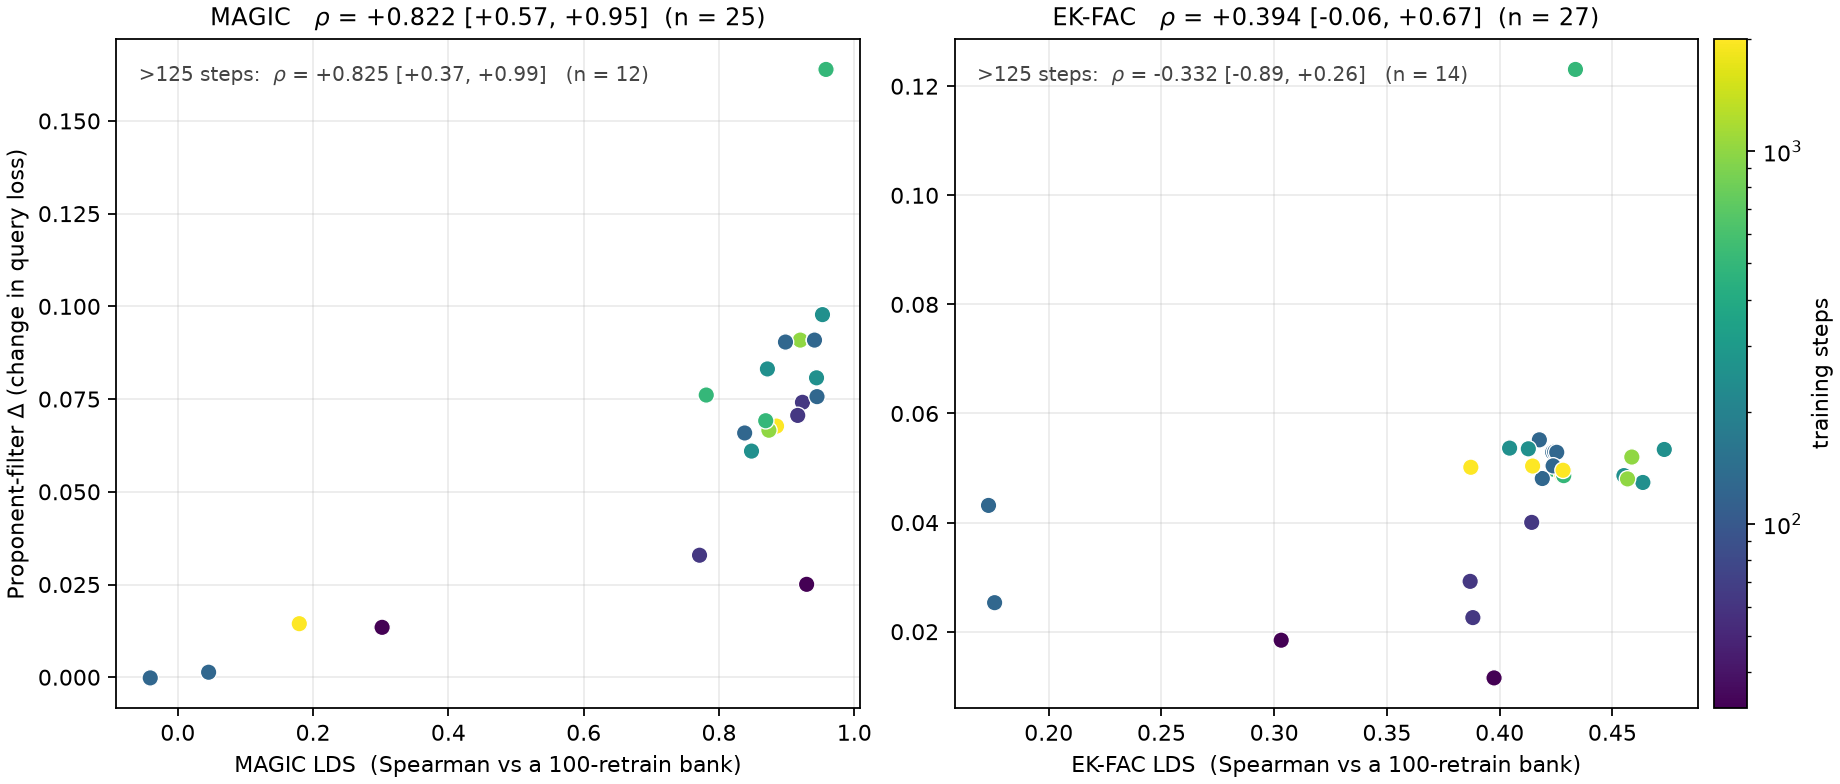
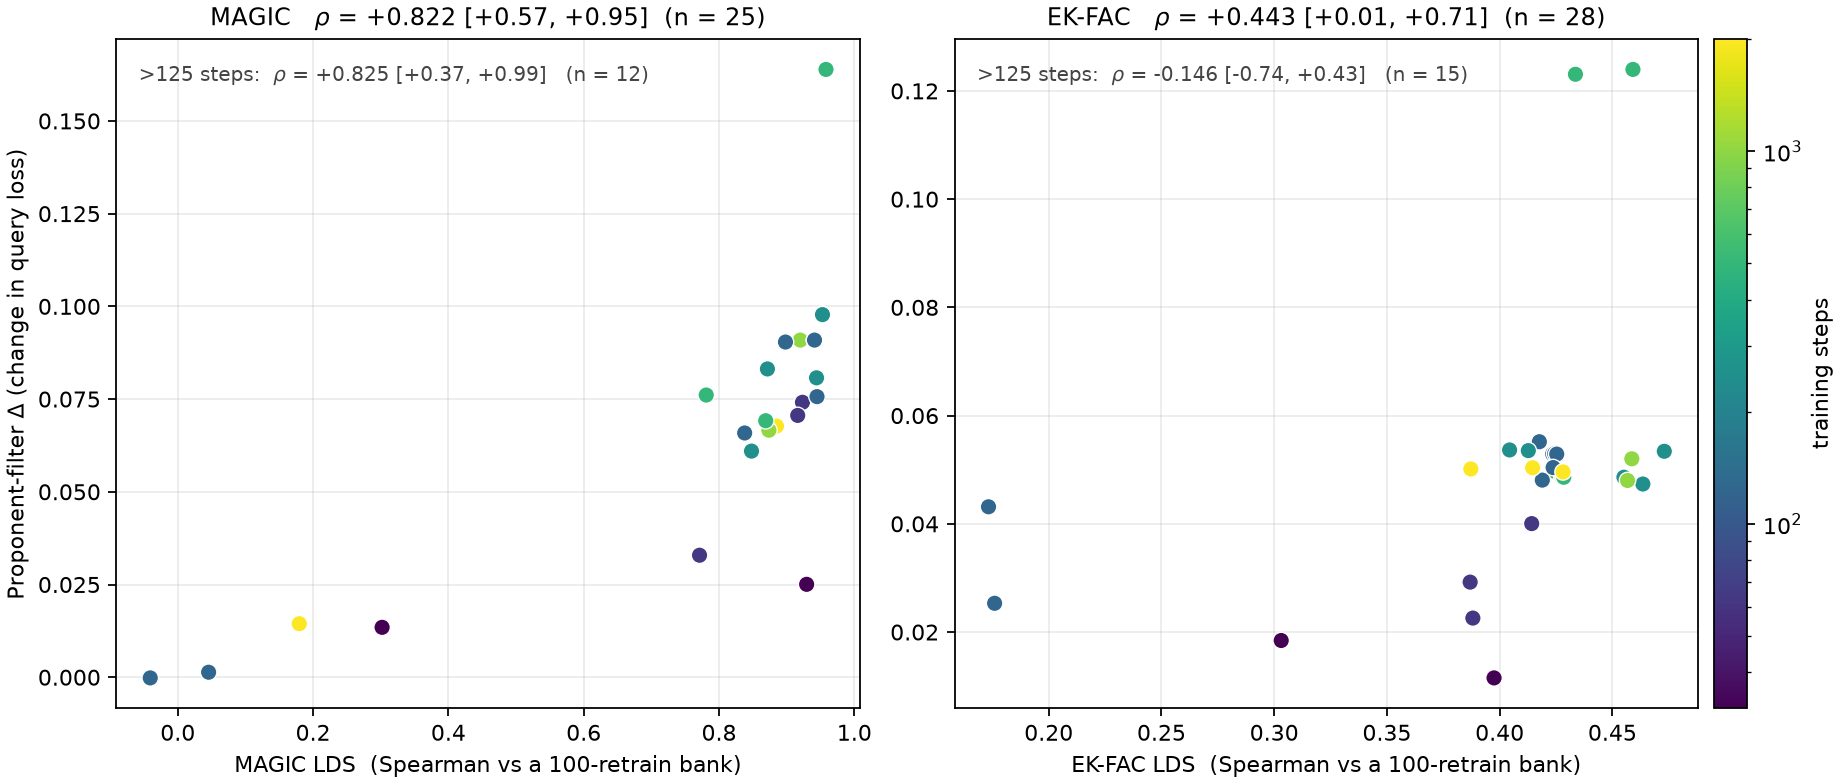
Register four EK-FAC LDS values that were already computable on disk
Nothing needed retraining. Four rows had a finished bank and finished EK-FAC
scores but no ekfac_lds in experiments.csv, so they were invisible to every
correlation -- the ground truth was sitting unread in each validation.csv:

    london16k_bs256_muon         0.3156 [0.274, 0.355]  n_subsets=100
    london16k_bs256_adamw        0.3165 [0.267, 0.365]  n_subsets=74
    gpt2medium_16k_bs32          0.3419 [0.277, 0.402]  n_subsets=65
    plan_muon_eps1e17_64k_bs256  0.4591 [0.386, 0.521]  n_subsets=57

n_subsets is recorded because three of these banks stopped early. An LDS on 57
subsets is a valid estimate with a wider interval, and the column is what tells a
later reader which is which.

Only the two rows already in experiments.csv are written here; the london pair is
not registered as rows yet.

plan_muon_eps1e17_64k_bs256 already had a filter delta, so it joins the
correlation immediately -- and moves it:

    EK-FAC   was  +0.394 [-0.062, +0.667]  n=27
             now  +0.443 [+0.015, +0.706]  n=28

One row crossed the interval over zero. That is worth treating as a warning about
how thin this result is rather than as a result: the EK-FAC correlation is not
robust to a single point, and its >125-step arm still shows nothing
(-0.146 [-0.739, +0.431]).

The three low-LDS rows matter for a second reason. Every EK-FAC LDS recorded so
far sat in 0.39-0.47, and a correlation cannot show much through a range that
[…]

diff --git a/scripts/record_lds.py b/scripts/record_lds.py
@@ -1,0 +1,48 @@
+"""Record EK-FAC LDS values that were computable from banks already on disk.
+
+Four rows had a finished bank and finished EK-FAC scores but no ekfac_lds in
+experiments.csv, so they were invisible to every correlation and to
+reclaim_banks' "statistics extracted" test. Nothing needed recomputing -- the
+ground truth was sitting in each row's validation.csv.
+
+n_subsets is recorded per row and is NOT always 100: three of these banks stopped
+early. An LDS on 57 subsets is a valid estimate with a wider interval, not a
+broken one, and the column is what tells a later reader which is which.
+"""
+import csv
+import shutil
+from pathlib import Path
+
+EXP = Path("/mnt/ssd-2/lucia/metasmoothness/experiments.csv")
+
+VALUES = {
+    "london16k_bs256_muon":        (0.3156, 0.2736, 0.3545, 100),
+    "london16k_bs256_adamw":       (0.3165, 0.2669, 0.3651, 74),
+    "gpt2medium_16k_bs32":         (0.3419, 0.2768, 0.4024, 65),
+    "plan_muon_eps1e17_64k_bs256": (0.4591, 0.3861, 0.5210, 57),
+}
+
+rows = list(csv.DictReader(open(EXP)))
+cols = list(rows[0].keys())
+touched = []
+for r in rows:
+    v = VALUES.get(r["run_id"])
+    if not v:
+        continue
+    if (r.get("ekfac_lds") or "").strip():
+        print(f"  {r['run_id']}: already has ekfac_lds {r['ekfac_lds']}, leaving alone")
+        continue
+    r["ekfac_lds"], r["ekfac_ci_lo"], r["ekfac_ci_hi"] = f"{v[0]:.4f}", f"{v[1]:.4f}", f"{v[2]:.4f}"
+    r["ekfac_n_subsets"] = str(v[3])
+    touched.append((r["run_id"], v, (r.get("filter_ekfac_delta") or "").strip()))
+
+if touched:
+    shutil.copy(EXP, EXP.with_suffix(".csv.bak"))
+    with open(EXP, "w", newline="") as f:
+        w = csv.DictWriter(f, fieldnames=cols)
+        w.writeheader()
+        w.writerows(rows)
+for run, v, delta in touched:
+    print(f"  {run:30s} lds={v[0]:.4f} n_subsets={v[3]:3d}  "
+          f"{'delta ' + delta[:7] + ' -> joins the correlation now' if delta else 'no delta yet -- needs a filter run'}")
+print(f"  wrote {len(touched)} row(s)")
